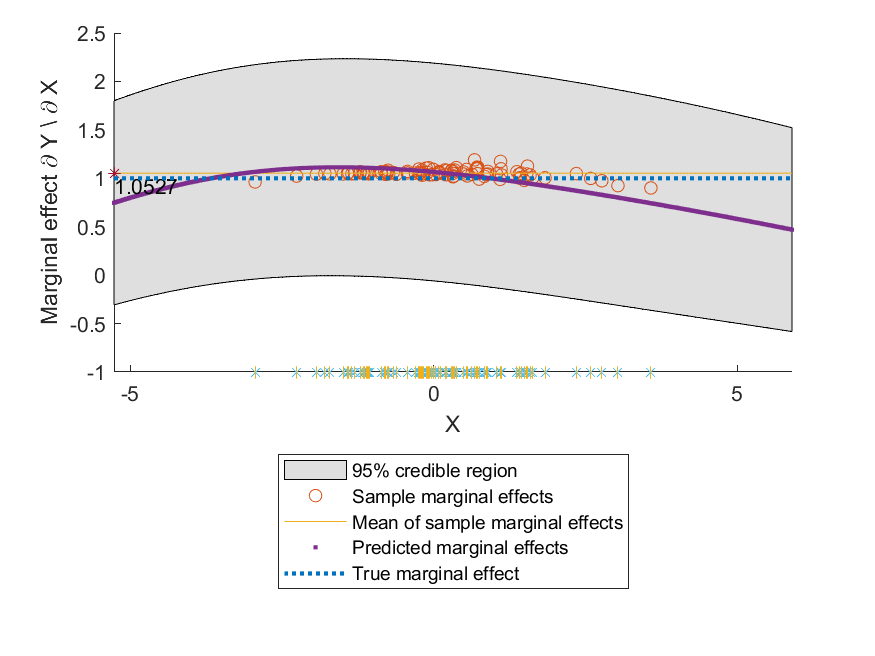
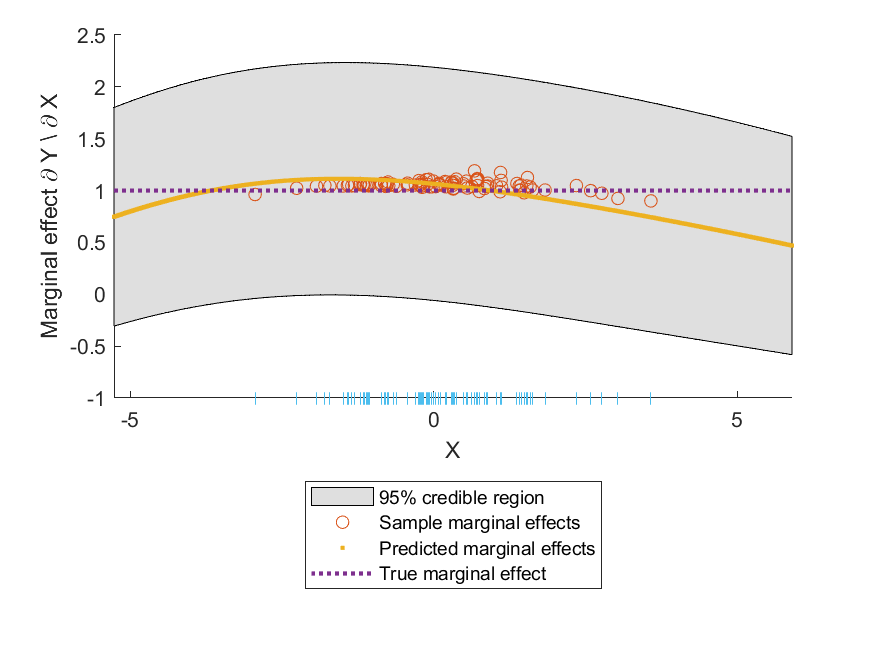
Revert me() changes
Recommit plots from testing whether the reversion worked

diff --git a/me.m b/me.m
@@ -8,56 +8,49 @@ function [ mean_vec, var_vec ] = me(hyp, meanfunc, covfunc, X, y, xs)
 % processes, the meanfunc function input is unused. The function input is 
 % kept as a placeholder for when support is added for additional mean
 % functions in the future.
+
+    [ N, D ] = size(X);
     
-    % First, make components common to either covfunc
-
-    [ N, D ] = size(X);                                                 % [number of observations in the sample, number of covariates]
-
-    Cs = (feval(covfunc{:}, hyp.cov, X) + exp(hyp.lik)^2 * eye(N));     % C(X,X) + sn^2 I    
-
-    % Define the x-specific product-rule factor created from
-    % differentiating a squared exponential kernel. This is common to both
-    % covSEiso and covSEard
-    dXs = zeros(N,D);                                                   % Preallocate
+    % Make the length scale diagonal matrix, which depends on the covariance function.
+    if str2num(feval(covfunc{:})) == 2                  % If the covfunc requires two inputs, then it's covSEiso
+        Lambda = diag(repmat(exp(hyp.cov(1))^2,D,1));   % hyp.cov(2) is the scale factor
+    else                                                % If it's not covSEiso, then it's covSEard
+        Lambda = diag(exp(hyp.cov(1:D)).^2);             % hyp.cov(D+1) is the scale factor
+    end
+    
+    % Define uninverted C(X) + sn^2 I
+    Cs = (feval(covfunc{:}, hyp.cov, X) + exp(hyp.lik)^2 * eye(N));
+    
+    % Define xs - xi, a 1xD vec, which is N x D
+    dXs = zeros(N,D);
     for i = 1:N
-        dXs(i,:) = xs - X(i,:);                                         % xs - xi is a 1xD vec
+        dXs(i,:) = xs - X(i,:);
     end
-
-    % Diagonal matrix of the length scales and the variance matrix of
-    % marginal effects depend on whether the covariance function is covSEiso or covSEard.
-    switch str2num(feval(covfunc{:}))
-
-        case 2                                                          % If covfunc requires two inputs, then it's covSEiso
-
-            % Diagonal matrix of the length scales
-            Lambda = diag(repmat(exp(hyp.cov(1))^2,D,1)); 
-
-            % Make partial derivative of c(X,xs) w.r.t. xs, which is NxD
-            d_c_X_xs_dxs = -Lambda^-1 * dXs' * (feval(covfunc{:}, hyp.cov, X, xs)); 
-
-            % Store the scale factor specific to the covariance function
-            cov_scale_factor = exp(hyp.cov(2))^2;
-
-        otherwise                                                       % If it's not covSEiso, then it's covSEard
-
-            % Diagonal matrix of the length scales
-            Lambda = diag((exp(hyp.cov(1:D)).^2)); 
-
-            % Make partial derivative of c(X,xs) w.r.t. xs, which is NxD
-            d_c_X_xs_dxs = -Lambda^-1 * dXs' * (feval(covfunc{:}, hyp.cov, X, xs)); 
-
-            % Store the scale factor specific to the covariance function
-            cov_scale_factor = exp(hyp.cov(D+1))^2;
-
+    
+    % Make partial derivative c(xs,X) partial xs, which is DxN
+    d_c_xs_X_dxs = zeros(D,N);
+    for i = 1:N
+        d_c_xs_X_dxs(:,i) = -(Lambda^-1) * (xs' - X(i,:)') * feval(covfunc{:}, hyp.cov, X(i,:), xs);
     end
+    
+    %
+    %
+    % Make the mean function and the covariance function from the components defined above.
+    %
+    %
 
-    % Marginal effect of the expected value of the Gaussian process at xs w.r.t. each covariate
-    mean_vec = d_c_X_xs_dxs' .* (Cs \ y); 
+    % mean function
+    mean_vec = - Lambda^-1 * dXs' * (feval(covfunc{:}, hyp.cov, X, xs) .* (Cs \ y));
 
-    % Make the variance-covariance matrix of the marginal effects
-    var_mat = cov_scale_factor * Lambda^-1 - d_c_X_xs_dxs' * ( inv(Cs) \ (-d_c_X_xs_dxs) ); 
-
-    % Only return the diagonals of var_mat, which corresponds to the variance of the marginal distribution of the marginal effects.
-    var_vec = diag(var_mat); 
+    % vcov function
+    if str2num(feval(covfunc{:})) == 2
+        var_mat = Lambda^-1 * exp(hyp.cov(2))^2 - d_c_xs_X_dxs * inv(Cs) * (-d_c_xs_X_dxs');
+    else % If it's not covSEiso, then it's covSEard
+        var_mat = Lambda^-1 * exp(hyp.cov(D+1))^2 - d_c_xs_X_dxs * inv(Cs) * (-d_c_xs_X_dxs');
+    end
+    
+    % Only return the diagonals of var_mat, which corresponds to the
+    % variance of the marginal distribution of the marginal effects.
+    var_vec = diag(var_mat);
 
 end
